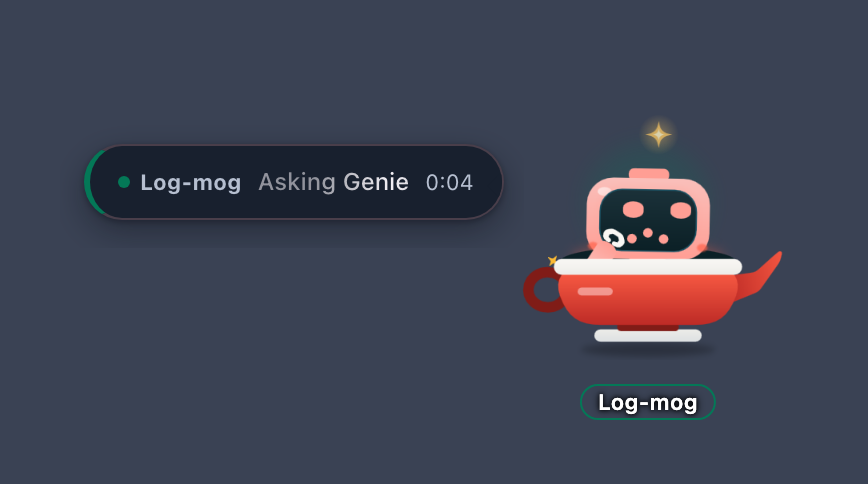
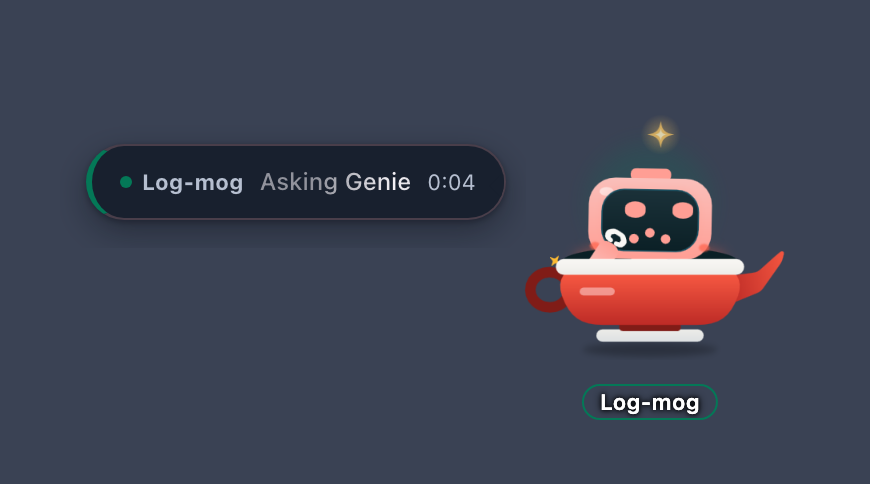
fix(mog): measure the pill with its fraction and 1 px of slack; Bottle card title; set it before a reused card shows; skip timer ticks

diff --git a/src/views/card/fit-window.test.ts b/src/views/card/fit-window.test.ts
@@ -49,8 +49,10 @@ describe('card window fit (#573, lamp-alive)', () => {
     expect(cardWindowWidth(undefined)).toBe(CARD_WINDOW_WIDTH);
     expect(cardWindowWidth(Number.NaN)).toBe(CARD_WINDOW_WIDTH);
     // 10 px facing the MOG and 12 px on the far side.
-    expect(cardWindowWidth(210.2)).toBe(211 + 22);
-    expect(cardWindowWidth(100)).toBe(122);
+    // The text width is rounded up and has 1 px of slack, so a fraction never cuts a letter.
+    expect(cardWindowWidth(210.2)).toBe(211 + 1 + 22);
+    expect(cardWindowWidth(210)).toBe(210 + 1 + 22);
+    expect(cardWindowWidth(100)).toBe(123);
     expect(cardWindowWidth(900)).toBe(CARD_WINDOW_WIDTH);
   });
 
@@ -65,8 +67,8 @@ describe('card window fit (#573, lamp-alive)', () => {
     measured = undefined;
     await fit(200);
     expect(f.log.map((l) => [l.r.w, l.r.h])).toEqual([
-      [222, 64],
-      [260, 64],
+      [223, 64],
+      [261, 64],
       [340, 200],
     ]);
   });
@@ -122,6 +124,54 @@ describe('card window fit (#573, lamp-alive)', () => {
     await fit(200);
     await fit(200);
     expect(f.log).toHaveLength(2);
+  });
+});
+
+describe('lamp-alive: the pill is measured with its fraction', () => {
+  it('reads the layout width as a fraction, so a text of 209.56 px gets a window of 210 + 1 + 22', async () => {
+    const { measureCompactWidth } = await import('./fit-window');
+    document.body.innerHTML = '<div class="popup" style="width: 209.56px"></div>';
+    const w = measureCompactWidth(document);
+    expect(w).toBeCloseTo(209.56, 2);
+    expect(cardWindowWidth(w)).toBe(210 + 1 + 22);
+    // The max-width of the window is not left on the element.
+    expect((document.querySelector('.popup') as HTMLElement).style.maxWidth).toBe('');
+    document.body.innerHTML = '';
+  });
+
+  it('is undefined for the answer card, which keeps the full width', async () => {
+    const { measureCompactWidth } = await import('./fit-window');
+    document.body.innerHTML = '<div class="genie genie-answer"></div>';
+    expect(measureCompactWidth(document)).toBeUndefined();
+    document.body.innerHTML = '';
+  });
+});
+
+describe('lamp-alive: a timer tick does not force a layout read', () => {
+  const text = (parent: string, old: string, now: string) => {
+    document.body.innerHTML = parent;
+    const t = document.body.querySelector('span')?.firstChild as Text;
+    t.data = now;
+    return { type: 'characterData' as const, target: t, oldValue: old };
+  };
+
+  it('skips a tick that keeps its digits, and fits when the timer gets a digit', async () => {
+    const { widthMayChangeIn } = await import('./fit-window');
+    const timer = '<span data-genie-timer>0:04</span>';
+    expect(widthMayChangeIn([text(timer, '0:03', '0:04')])).toBe(false);
+    expect(widthMayChangeIn([text(timer, '0:59', '1:00')])).toBe(false);
+    expect(widthMayChangeIn([text(timer, '9:59', '10:00')])).toBe(true);
+  });
+
+  it('fits for a new node (the timer appears) and for any other text change', async () => {
+    const { widthMayChangeIn } = await import('./fit-window');
+    const node = document.createElement('span');
+    expect(widthMayChangeIn([{ type: 'childList', target: node, oldValue: null }])).toBe(true);
+    expect(widthMayChangeIn([text('<span>Asking Genie</span>', 'Asking', 'Asking Genie')])).toBe(
+      true,
+    );
+    expect(widthMayChangeIn([])).toBe(false);
+    document.body.innerHTML = '';
   });
 });
 

diff --git a/src/views/card/fit-window.ts b/src/views/card/fit-window.ts
@@ -95,7 +95,8 @@ export const tauriCardWindow = (): CardWindow => {
 export function cardWindowWidth(measured: number | undefined): number {
   if (measured === undefined || !Number.isFinite(measured) || measured <= 0)
     return CARD_WINDOW_WIDTH;
-  const w = Math.ceil(measured) + CARD_FACING_PAD + CARD_FAR_PAD;
+  // Round up and leave 1 px: a fractional text width must never cut the last letter.
+  const w = Math.ceil(measured) + 1 + CARD_FACING_PAD + CARD_FAR_PAD;
   return Math.min(CARD_WINDOW_WIDTH, w);
 }
 
@@ -115,10 +116,28 @@ export function measureCompactWidth(doc: Document = document): number | undefine
   if (!pill) return undefined;
   const prev = pill.style.maxWidth;
   pill.style.maxWidth = 'none';
-  // Layout width (`offsetWidth`), not the box under a transform: the pill fades and scales in.
-  const w = pill.offsetWidth;
+  // The layout width with its fraction: not `offsetWidth`, which rounds down and cut the last
+  // letter, and not the box under a transform, because the pill fades and scales in. The used
+  // `width` of a border-box is the whole pill. `getBoundingClientRect` is the fallback.
+  const used = parseFloat(getComputedStyle(pill).width);
+  const w = Number.isFinite(used) && used > 0 ? used : pill.getBoundingClientRect().width;
   pill.style.maxWidth = prev;
   return w;
+}
+
+/**
+ * Whether these DOM changes can change the width of the pill. A timer tick that keeps the number
+ * of digits cannot, so it skips the layout read of the fit (one per second). A new node (the
+ * timer appears) or a new text length (the stage line, a timer digit) can.
+ */
+export function widthMayChangeIn(
+  records: readonly Pick<MutationRecord, 'type' | 'target' | 'oldValue'>[],
+): boolean {
+  return records.some((r) => {
+    if (r.type !== 'characterData') return true;
+    const timer = r.target.parentElement?.closest('[data-genie-timer]') != null;
+    return !timer || (r.oldValue?.length ?? -1) !== (r.target.textContent?.length ?? -2);
+  });
 }
 
 /**

diff --git a/src/views/card/CardView.tsx b/src/views/card/CardView.tsx
@@ -16,7 +16,7 @@ import {
   type CardSection,
   type CardUpdate,
 } from '../view-ipc';
-import { applyCardSide, createWindowFit, tauriCardWindow } from './fit-window';
+import { applyCardSide, createWindowFit, tauriCardWindow, widthMayChangeIn } from './fit-window';
 import { GenieCard } from './GenieCard';
 import { Popup } from './Popup';
 import { NO_LINKS, SafeMarkdown } from './safe-markdown';
@@ -253,7 +253,9 @@ export function CardView({ mogId }: { mogId: MogId }) {
   useEffect(() => {
     if (typeof MutationObserver === 'undefined') return;
     let raf = 0;
-    const mo = new MutationObserver(() => {
+    const mo = new MutationObserver((records) => {
+      const widthMayChange = widthMayChangeIn(records);
+      if (!widthMayChange) return;
       cancelAnimationFrame(raf);
       raf = requestAnimationFrame(() => {
         if (lastPx.current !== undefined) void fit(lastPx.current, window.innerHeight);
@@ -263,6 +265,7 @@ export function CardView({ mogId }: { mogId: MogId }) {
       childList: true,
       subtree: true,
       characterData: true,
+      characterDataOldValue: true,
     });
     return () => {
       mo.disconnect();

diff --git a/src/views/card/card-placement.test.ts b/src/views/card/card-placement.test.ts
@@ -11,8 +11,8 @@ const SCREEN: Rect = { x: 0, y: 0, w: 1440, h: 900 };
 
 describe('the card keeps the edge that faces its MOG (lamp-alive)', () => {
   it('reads the side from the window title the host sets', () => {
-    expect(sideFromTitle('MOG card (left)')).toBe('left');
-    expect(sideFromTitle('MOG card (right)')).toBe('right');
+    expect(sideFromTitle('Bottle card (left)')).toBe('left');
+    expect(sideFromTitle('Bottle card (right)')).toBe('right');
     expect(sideFromTitle('MOG card')).toBe('right');
     expect(sideFromTitle(undefined)).toBe('right');
   });

diff --git a/src-tauri/src/window_host.rs b/src-tauri/src/window_host.rs
@@ -642,15 +642,15 @@ impl<R: tauri::Runtime> TauriWindowHost<R> {
                 } else {
                     place(w, at.as_ref())
                 };
+                // The side goes into the title before the card shows, so the view never reads
+                // the side of its last show.
+                set_side_title(w, side);
                 self.native.show(w, &kind)
             }
             _ => self.make(&kind, at.as_ref()).map(|w| {
                 set_side_title(&w, side);
             }),
         };
-        if let (Some(w), Some(side)) = (&existing, side) {
-            set_side_title(w, Some(side));
-        }
         if shown.is_err() {
             let mut ledger = self.ledger();
             match plan {

diff --git a/tools/lamp_alive_shots.py b/tools/lamp_alive_shots.py
@@ -271,7 +271,7 @@ def card_scene(browser, name, mog_x, payload, mood="processing"):
     side = "right" if right_x + 340 <= SCREEN[0] else "left"
     card_pos = {"x": right_x if side == "right" else mog_x + 18 - 340, "y": 342}
     init = (
-        f"window.__LABEL__ = 'card-{CARD_ID}'; window.__TITLE__ = 'MOG card ({side})';"
+        f"window.__LABEL__ = 'card-{CARD_ID}'; window.__TITLE__ = 'Bottle card ({side})';"
         f"window.__POS__ = {{'card-{CARD_ID}': {json.dumps(card_pos)}, 'mog-{MOG_ID}': {json.dumps(mog_pos)}}};"
         f"window.__SIZE__ = {{'card-{CARD_ID}': {{width: 340, height: 64}}, 'mog-{MOG_ID}': {{width: 160, height: {H}}}}};"
     )

diff --git a/src-tauri/src/windows.rs b/src-tauri/src/windows.rs
@@ -55,8 +55,8 @@ pub enum CardSide {
 /// mirror its tail and to keep the edge that faces the MOG fixed (`src/views/card/card-placement.ts`).
 pub fn card_title(side: CardSide) -> String {
     match side {
-        CardSide::Right => "MOG card (right)".to_owned(),
-        CardSide::Left => "MOG card (left)".to_owned(),
+        CardSide::Right => "Bottle card (right)".to_owned(),
+        CardSide::Left => "Bottle card (left)".to_owned(),
     }
 }
 

diff --git a/src-tauri/tests/card_window.rs b/src-tauri/tests/card_window.rs
@@ -896,6 +896,6 @@ fn lamp_alive_the_card_window_ends_at_the_lamp_art_and_never_covers_it() {
 
 #[test]
 fn lamp_alive_the_card_title_tells_the_view_its_side() {
-    assert_eq!(card_title(CardSide::Left), "MOG card (left)");
-    assert_eq!(card_title(CardSide::Right), "MOG card (right)");
+    assert_eq!(card_title(CardSide::Left), "Bottle card (left)");
+    assert_eq!(card_title(CardSide::Right), "Bottle card (right)");
 }
